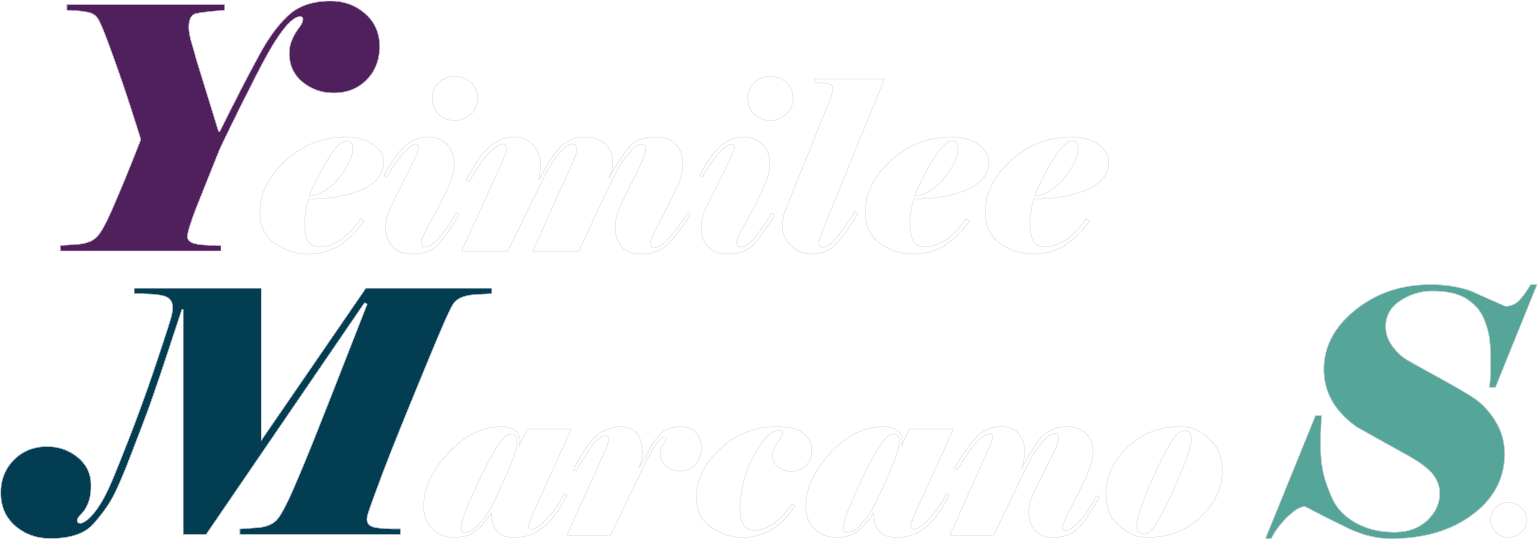
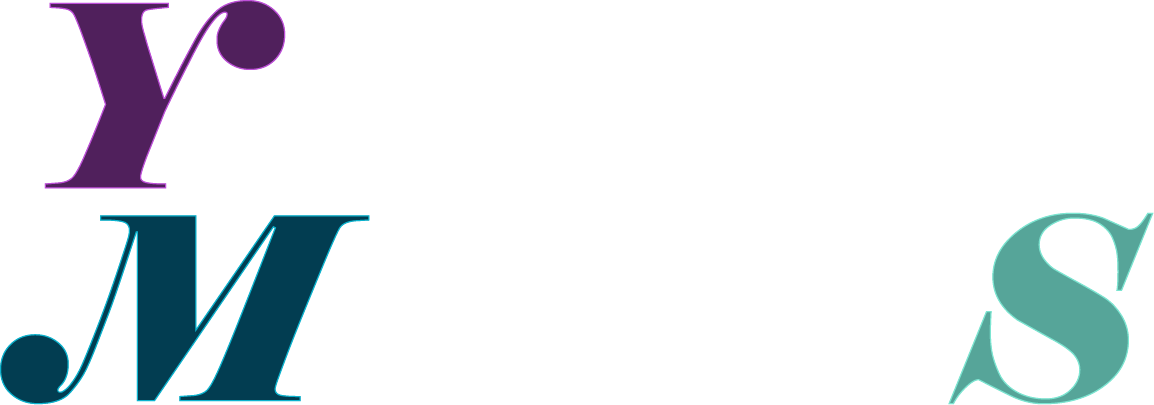
ALMOOOOOST

diff --git a/style.css b/style.css
@@ -65,12 +65,16 @@ header{
     font-weight: 400;
     background-color:#1D1130;
     padding: 2.5em 7em;
+   
+}
+#sign{
+    display: none;
+}
+.banner img{
+    max-width: 80%;
+    margin: 0 9.97%;
 }
 
-.banner{
-    max-width:90%;
-    margin-left: 4.8%;
-}
 
 .work {
     display: grid;
@@ -113,7 +117,7 @@ header{
 .description h1{
     font-size: 3.25rem;
     font-weight: 800;
-    align-self: center;
+    
 }
 .description h2{
     margin-top: 0.25em;
@@ -131,8 +135,8 @@ header{
 
 .description h3{
     margin-top: 2em;
-    font-size: 1.75em;
-    font-weight: 600;
+    font-size: 1.75rem;
+    font-weight: 500;
     font-style: italic;
     text-align: left;
 }
@@ -203,9 +207,10 @@ header{
 /* *******************************ABOUT PAGE**************************** */
 
 #name{
-    max-width:60%;
+    max-width:55%;
 }
 .about p{
+    margin-top: 2em;
     max-width: 100%;
     font-size: 1.25rem;
     line-height: 1.25em;
@@ -267,13 +272,12 @@ footer a svg:hover{
 /* *********************************header*/
     .menu li{
         padding: 0 2em;
-    
     }
 
 /* **************************HOME */
     .home h2, .home h3{
-        margin-top: 0.5em;
-        text-align: left;
+        margin-top: 2em;
+        
     }
 
     .home h2{
@@ -283,34 +287,102 @@ footer a svg:hover{
     }
 
     .home h3{ 
-        font-size: 1.15rem;
+        font-size: 1.05rem;
         font-weight: 300;
-        padding: 1.5em 1em;
+        padding: 1.25em 1em;
+        text-align: left;
+        
     }
 
-    .banner{
-        width: 100%;
-
+    .banner img{
+        display: none;
+    }
+    .banner #sign{
+        display: block;
+        margin-top: 1em;
     }
 
     .work{
         display: block;
-        margin: 0 0.5em;
     }
     .work img{
         width: 100%;
     }
+   /* *******************************DESCRIP */
+    .description h1{
+        font-size: 2rem;
+    }
+
+    .description h2{
+        font-size: 1.10rem;
+        line-height: 1.20em;
+    }
+    .description p{
+        font-size: 1rem;
+        line-height: 1.35em;
+        text-align: left;
+
+    }
+
+    .description h3{
+        margin-top: 1.5em;
+        font-size: 1.45rem;
+    }
+    
+    .description h4{
+        font-size: 0.85rem;
+        width: 100%;
+        font-weight: 200;
+    }
+
+    #image{
+        float: left;
+        width: 80%;
+        margin: 1em 2em;
+        margin-bottom: 2em;
+    }
    
+    .showcase{
+        display: block;
+        
+       
+    }
+    .one{
+        margin-top: 2em;
+    }
+ /* ********************time */
+    #p1, #p2{
+        width: 100%;
+        clear: both;
+    }
+    #p2{
+        margin-bottom: 4em;
+    }
+    
+    .grid{
+        display: block;
+    }
+   
+    #p3{
+       margin-top: 1.75em;
+       text-align: left;
+       margin-bottom: 4em;
+    }
+    
+    
+    .body1 li,.body2 li{
+        font-size: 1rem;
+    }
 
 
 
-    /* ************************************ABOUT */
+/* ************************************ABOUT */
 
     #name{
         min-width:100%;
     }
     .about p{
-        font-size: 1.10rem;
+        font-size: 1.05rem;
     }
     
     #icon{

diff --git a/web/timelyTask.html b/web/timelyTask.html
@@ -25,10 +25,9 @@
     </header>
     <div class="wrapper">
         <main class="description">
-            <!-- <img id="image" src="../images/print/RCover.jpg" alt="book cover"> -->
+            <img src="../images/App.png" alt="app" id="image">
             <h1>BMCC TimelyTask App</h1>  
             <h2> Ux & UI Design | 2024 | Figma</h2>
-            <img src="../images/App.png" alt="app" id="image">
             
             <p id="p1">The app is a student organizer in which you will learn how to manage your time at the moment of submitting your assignments, your study hours for your upcoming quizzes, and work on those big projects. The app has a student calendar to look for your class schedule, BMCC Calendar and events. In this way, you could see your free hours to work on your student life and personal one. </p>
             <p id="p2">One of its most important features is the creation of reminders for assignments and exam deadlines, assigning notifications and a countdown to the due date you set for your projects. Your student projects will be arranged by categories and classes. You can even mark a specific task as important, so the main countdown on the homepage and the reminders page will focus on that important task.

diff --git a/about.html b/about.html
@@ -30,7 +30,7 @@
             <!-- <img id="photo" src="images/ym.jpg" alt="me" > -->
             <h1><img id="name" src="images/name.png" alt="name"></h1>
             <p>Hola!</p>
-            <p>I’m Yeimilee Marcano,  a graphic designer based in Brooklyn.</p>  
+            <p>I’m Yeimilee Marcano,  a graphic designer based in Brooklyn, born in Venezuela.</p>  
             <p>I find myself enthusiastic, focused, and passionate about my work. I enjoy learning something new every day and adapt well to challenges. My dedication and determination guide my efforts to achieve my goals. I express my intellect and creativity through meaningful art, trusting my instincts and thinking outside the box. I often seek ways to exceed expectations. I'm all about originality—finding differences, not similarities. But making sure that my designs deliver, more importantly, communicating clearly and creatively with the audience. </p>
 
             

diff --git a/index.html b/index.html
@@ -23,7 +23,11 @@
         </nav>
     </header>
     <main class="home">
-        <img class="banner" src="images/banner.png" alt="banner">
+        <div class="banner">
+             <img src="images/banner.png" alt="banner">
+             <img id="sign" src="images/sign.png" alt="sign">
+        </div>
+       
         <h3>Beyond the routine, beyond the ordinary. I enjoy experimenting with my ideas and work. <br> Going beyond expectations.</h3>
         <h2>Featured Projects</h2>
         <div class="work">

diff --git a/branding/avilaEats.html b/branding/avilaEats.html
@@ -41,7 +41,7 @@
             </div>
             <h3>Style Guide</h3>
             <iframe allowfullscreen="allowfullscreen" scrolling="no" class="fp-iframe" src="https://heyzine.com/flip-book/43e4d079ee.html" style="border: 0px; width: 100%; height: 600px;"></iframe>
-
+            
         </main>
     </div>
         <footer>
